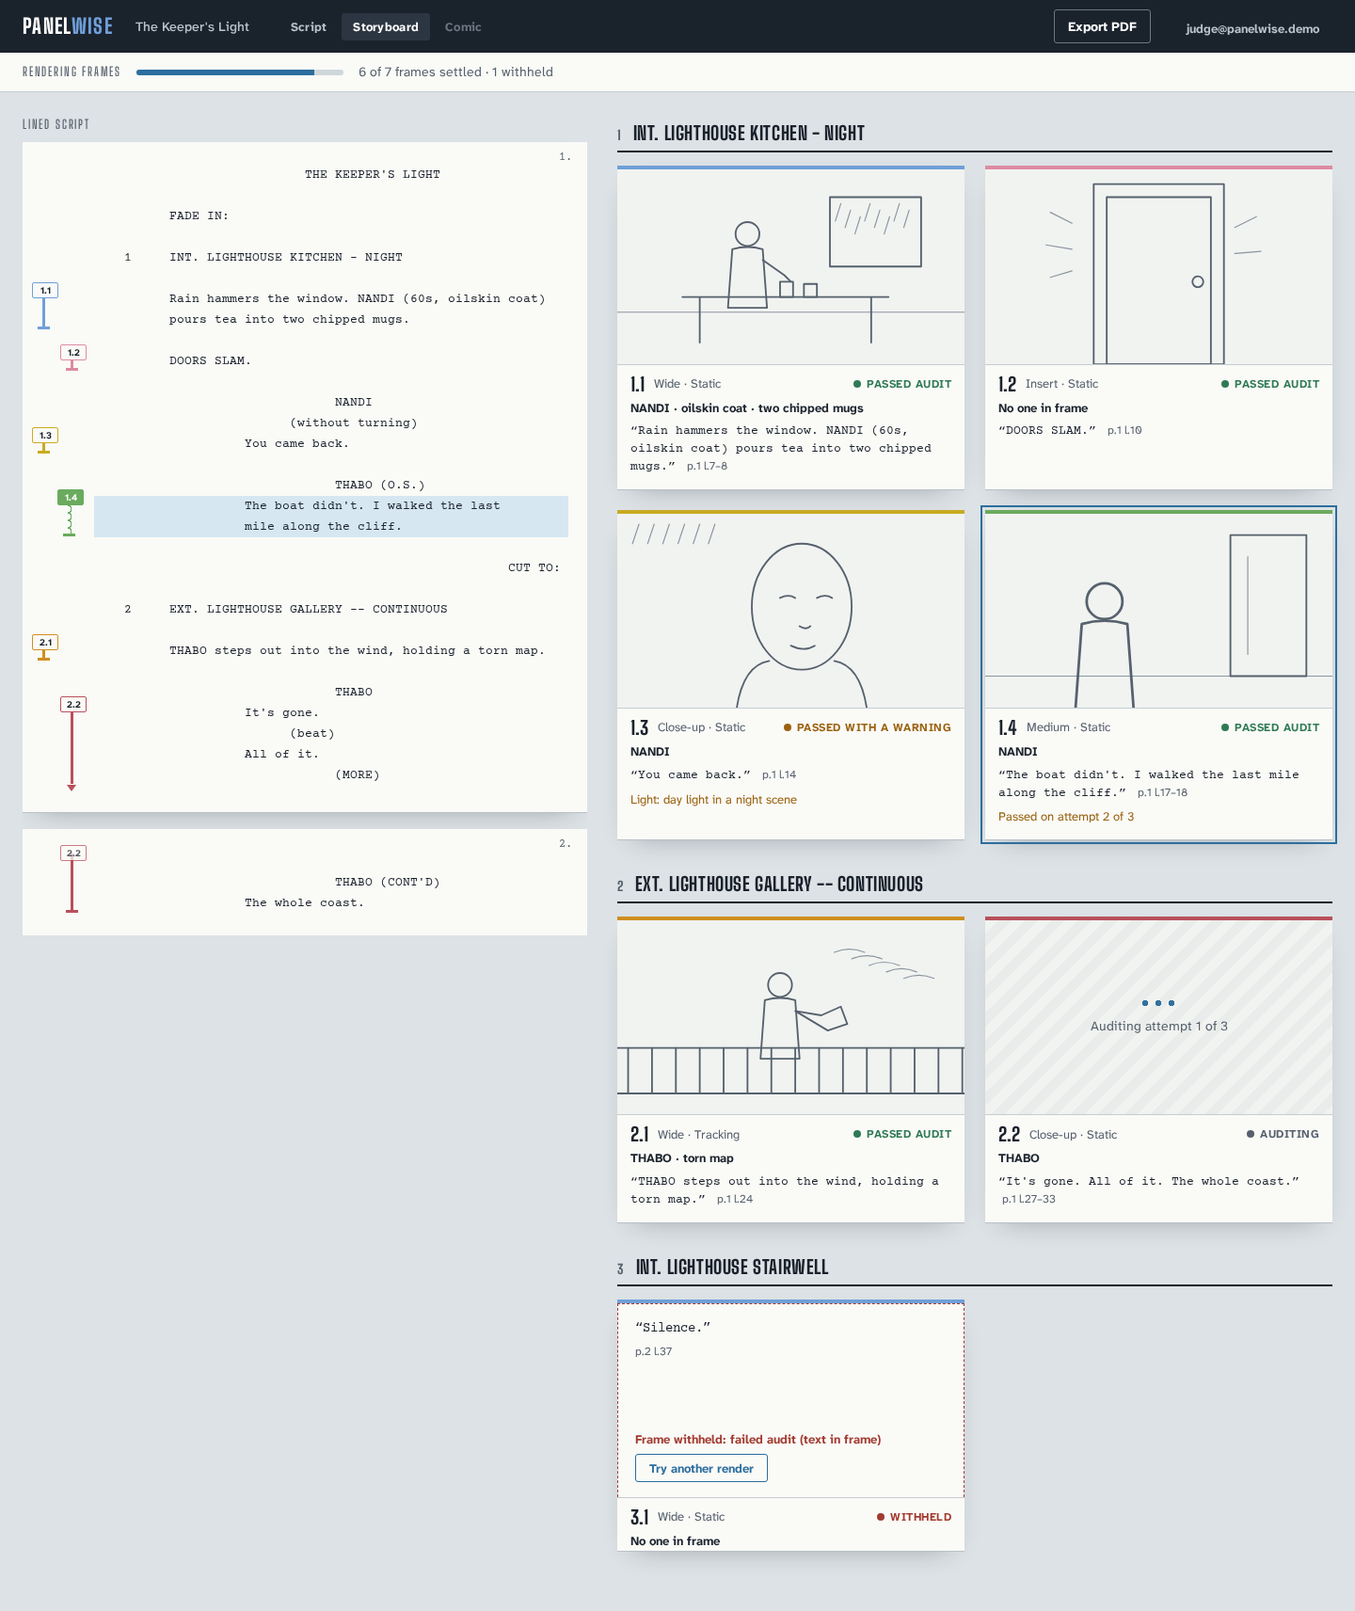
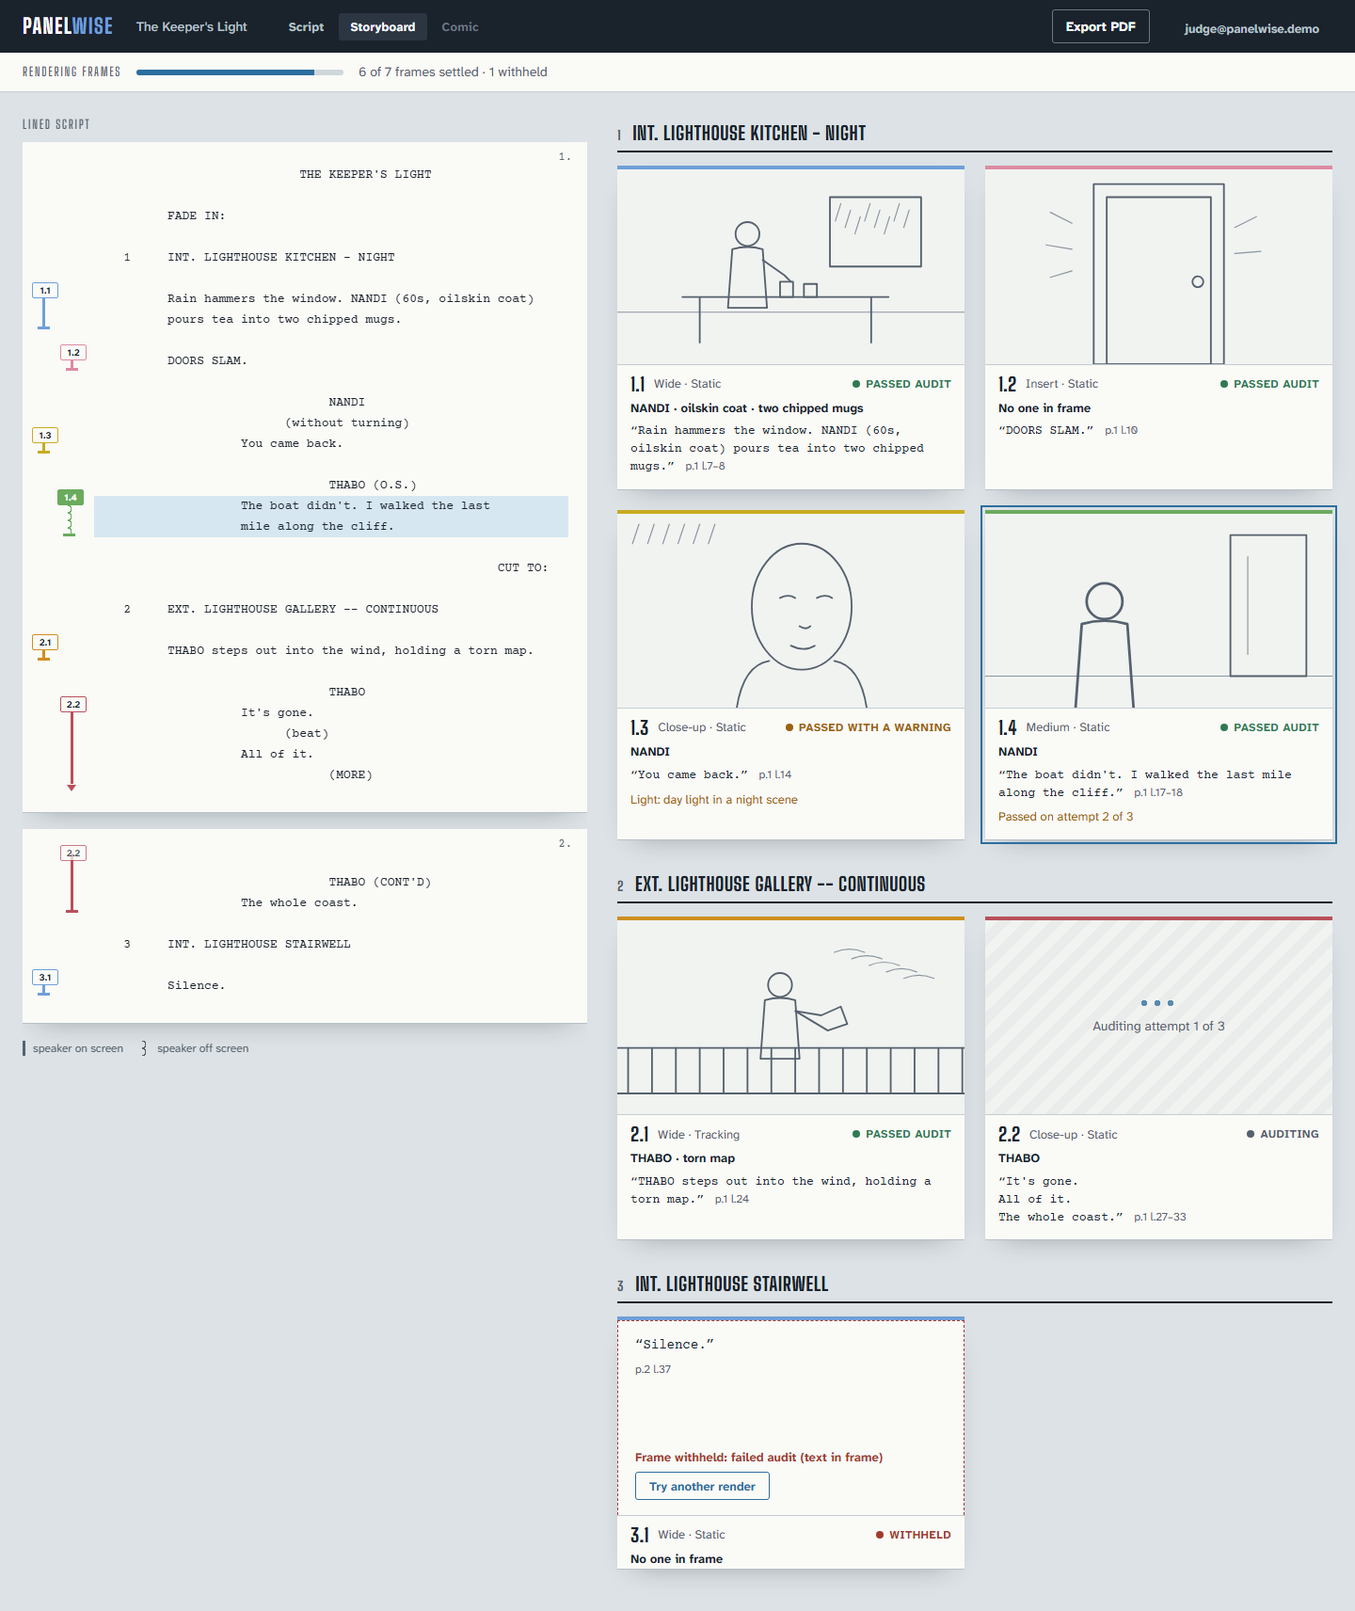
docs(web): T042 review: frames fetched every tick, one FailedCard, restart wording to T021, T027 owns Export, 2.2 in three parts

diff --git a/docs/design/web/mockups/storyboard.html b/docs/design/web/mockups/storyboard.html
@@ -6,7 +6,7 @@
 <header class="bar">
   <a class="wordmark" href="projects.html">Panel<span>wise</span></a>
   <span class="project">The Keeper's Light</span>
-  <nav aria-label="Project"><a href="script.html">Script</a><a href="storyboard.html" aria-current="page">Storyboard</a><a aria-disabled="true" title="Comic pages arrive with T024">Comic</a></nav>
+  <nav aria-label="Project"><a href="script.html">Script</a><a href="storyboard.html" aria-current="page">Storyboard</a><a aria-disabled="true" title="Comic pages aren&#x27;t built yet">Comic</a></nav>
   <span class="spacer"></span>
   <button class="btn quiet" disabled title="Available when every frame has settled">Export PDF</button>
   <span class="who">judge@panelwise.demo</span>
@@ -61,7 +61,7 @@
   <div class="media"><div class="media-pending"><span class="dots" aria-hidden="true"></span><p>Auditing attempt 1 of 3</p></div></div>
   <header><span class="sid">2.2</span><span class="cam">Close-up · Static</span><span class="verdict pending">Auditing</span></header>
   <p class="who">THABO</p>
-  <p class="src quote">“It&#x27;s gone. All of it. The whole coast.” <span class="span-ref">p.1 l.27–33</span></p>
+  <p class="src quote">“It&#x27;s gone.<br>All of it.<br>The whole coast.” <span class="span-ref">p.1 l.27–33</span></p>
   
 </article></div><h2 class="scene"><span>3</span>INT. LIGHTHOUSE STAIRWELL</h2><div class="grid"><article class="card" id="shot-3.1" style="--c:var(--line-1)">
   <div class="media"><div class="media-withheld"><p class="quote">“Silence.”</p><p class="span-ref">p.2 l.37</p>

diff --git a/docs/design/web.md b/docs/design/web.md
@@ -306,7 +306,8 @@ projects.png and projects-states.png.
      a minute."
 5. **Accepted (202), staged:** in T040 the panel returns to idle and the list refreshes, the new
    row on top with its live state (the Done of T040). **T042** replaces this with §4.1's redirect
-   to `/projects/{id}/storyboard`.
+   to `/projects/{id}/storyboard`: the route handler still relays the API's 202 JSON unchanged, and
+   `UploadPanel` calls `router.push(`/projects/${project.id}/storyboard`)` with the id from it.
 
 **`POST /api/projects`** (route handler): `getClaims()` (401 JSON if signed out), then forwards the
 request body as a stream with its `Content-Type` and `Content-Length` to `POST /api/v1/projects`
@@ -395,9 +396,12 @@ exists), `GET …/lines`, `GET …/shots` and `GET …/frames` in parallel (befo
 
 - the job's `state` or `stage` changed → `router.refresh()`, as the script page does (§4.2), so the
   board appears when planning finishes and the failed card when the job fails;
-- otherwise `frames` changed → the client fetches `GET /api/projects/[id]/frames` and re-renders
-  the board from it. A frame whose `state` and `attempt` are unchanged keeps the `image_url` it
-  already has, so a fresh signed URL never reloads an image that is on screen.
+- otherwise, while `frames` is set (rendering, or a frame active after `DONE`) → the client
+  fetches `GET /api/projects/[id]/frames` **on that same tick** and re-renders the board from it.
+  Every tick, not only when the counts change: a frame going `rendering` → `auditing`, or to its
+  next attempt, changes none of `ProjectSummary.frames`' counts. A frame whose `state` and
+  `attempt` are unchanged keeps the `image_url` it already has, so a fresh signed URL never
+  reloads an image that is on screen.
 
 A 401 goes to `/sign-in`; a failed poll is retried on the next tick.
 
@@ -408,7 +412,7 @@ A 401 goes to `/sign-in`; a failed poll is retried on the next tick.
 | `shots` null, job `queued` or `running` (queued, reading, planning) | the bar, the job strip, nothing else (§5: the storyboard waits for the plan) |
 | `shots` set, job `running` (rendering, T026) | the job strip, then the board |
 | job `done` | the board; the job strip only while `frames.active` > 0 (a "Try another render", T021) |
-| job `failed` | the eyebrow "Storyboard", the title, then the script page's failed card (§4.2, `FailedCard`, imported, not copied) |
+| job `failed` | the eyebrow "Storyboard", the title, then the script page's failed card (§4.2: `components/script/FailedCard.tsx`, imported, not copied) |
 
 A project the API answers 404 for renders `app/not-found.tsx` and an unreachable API or a 503 the
 "can't be loaded right now" line, both exactly as §4.2. **Before T021 and T026** every planned
@@ -445,8 +449,12 @@ state (§4.1), drawn in storyboard-states.png.
   - **Who and what:** the characters, then the props, as written, joined " · "; with no characters
     it starts "No one in frame" (storyboard.png 1.2), then any props.
   - **Source:** `ShotView.source` verbatim inside “ ”, its parts (one per covered element, joined
-    by "\n" in the API) each on its own line, then the span. A heading-only shot's source is its
-    heading.
+    by "
+" in the API) each on its own line, then the span. A heading-only shot's source is its
+    heading. An element's own wrapped lines arrive joined by a space (1.4, one dialogue element);
+    a parenthetical, a `(MORE)` and a `(CONT'D)` cue each end one element and start the next
+    (script.md's parser), so storyboard.png's 2.2 ("It's gone." (beat) "All of it." (MORE) page
+    break "The whole coast.") is three parts on three lines.
 - **Linking:** hovering or focusing a card highlights its shot line and tints its lines
   (`--pencil-soft`); clicking a shot line scrolls to its card and focuses it. Clicking a card opens
   the frame sheet (§4.4) and sets `?shot=1.4`, so a frame can be linked to.
@@ -464,7 +472,7 @@ state (§4.1), drawn in storyboard-states.png.
 | `passed` | the frame | "Passed audit" | "Passed on attempt {n} of {max}" when n > 1 |
 | `warned` | the frame | "Passed with a warning" | each failed soft check: "Light: day light in a night scene" |
 | `withheld` | a text card: the verbatim source, its span, "Frame withheld: failed audit ({check})", button "Try another render" | "Withheld" | — |
-| `failed` | a text card: the source, its span, "The renderer failed on this frame." (or, after the restart sweep, "Rendering was interrupted by a restart.") | "Render failed" | — |
+| `failed` | a text card: the source, its span, "The renderer failed on this frame." (or, after the restart sweep, "Rendering was interrupted by a restart.": T021's, below) | "Render failed" | — |
 
   Withheld and failed cards carry the source **once**, in the text card; the source line under the
   header is left out for them. Spans on cards read `p.1 l.7–8` (`l.14` for one line), in the body
@@ -474,6 +482,10 @@ state (§4.1), drawn in storyboard-states.png.
   case}: {detail}" (§6's check names), and `{check}` in the withheld card is `withheld_check` in
   words. **Staged, until T021:** the withheld card has no "Try another render" button (T021 adds
   it with the action, per its Files); no frame can be withheld before T021 writes `frames` rows.
+  Likewise every `failed` card in T042 reads "The renderer failed on this frame.": nothing in
+  `FrameView` or the `frames` table tells a renderer failure from the restart sweep's, so **T021**,
+  which writes both, adds what tells them apart (a `frames` column and its `FrameView` field, in
+  its own design change) and the second wording with it.
 
 - **Job strip** under the bar while polling (above): T041's `JobStrip`, unchanged (§4.2).
 - **Export PDF** (bar, right): disabled with the tooltip "Available when every frame has settled"
@@ -850,7 +862,8 @@ StoryboardPage
 ├── ExportButton (in AppBar actions; disabled until settled)   [T042; enabled by T027]
 ├── JobStrip (shared, T041)
 ├── LinedScript → ScriptSheet (per page) → ScriptLine*, ShotLine* ; Legend
-├── FrameBoard → SceneHeader, FrameCard (FrameMedia | PendingMedia | WithheldCard | FailedCard)   [T042]
+├── FailedCard (T041's, from components/script/, for a failed job)
+├── FrameBoard → SceneHeader, FrameCard (FrameMedia | PendingMedia | WithheldCard | RenderFailedCard)   [T042]
 └── FrameSheet → FrameMedia, SourceBlock, InFrame   [T045], AuditLog → AttemptItem → CheckList   [T021]
 shared (components/shared/): Verdict, SpanRef, Quote (Courier), Meter (T040); JobStrip (T041)
 ```
@@ -869,7 +882,8 @@ shared (components/shared/): Verdict, SpanRef, Quote (Courier), Meter (T040); Jo
 | Faithfulness | "{g} of {p} things the model named are in the script. {l} of {q} quotes found on the page." |
 | Recall | "{f} of {c} speaking characters found by the model. A speaker it misses is still added from their dialogue cues." |
 | Withheld | "Frame withheld: failed audit ({check in words})" · button "Try another render" |
-| Export tooltip | "Available when every frame has settled" |
+| Export tooltip | "Available when every frame has settled" (T027) · staged until then: "The PDF export isn't built yet" |
+| Storyboard cards, states, eyebrows | §4.3, verbatim: "Not rendered yet", "Rendering attempt {n} of {max}", "Auditing attempt {n} of {max}", "Render failed", "The renderer failed on this frame.", "Lined script", "speaker on screen", "speaker off screen", "Storyboard" (the failed page's eyebrow) |
 
 Check names in words: `unscripted_person` "unscripted person", `unscripted_object` "unscripted
 object", `text_in_frame` "text in frame", `setting` "wrong setting", `missing_character` "missing
@@ -901,7 +915,7 @@ character", `light` "light", `framing` "framing", `audit_error` "the audit could
 | `apps/web/app/(auth)/sign-in/`, `apps/web/app/projects/page.tsx`, `apps/web/app/api/projects/route.ts`, `apps/web/components/AppBar.tsx` (ProjectTabs inside), `apps/web/components/SignInForm.tsx`, `apps/web/components/projects/*` (ProjectsPage parts) | new | §4.0, §4.1 | T040 |
 | `apps/web/components/shared/{Verdict,SpanRef,Quote,Meter}.tsx` | new | used by every screen | T040 |
 | `apps/web/app/projects/[id]/script/`, `components/script/*`, `components/shared/JobStrip.tsx`, `apps/web/app/api/projects/[id]/status/route.ts`, `apps/web/app/not-found.tsx` | new | §4.2 | T041 |
-| `apps/web/app/projects/[id]/storyboard/`, `components/storyboard/LinedScript.tsx` (ScriptSheet, ScriptLine, ShotLine, Legend inside), `FrameBoard.tsx` (SceneHeader inside), `FrameCard.tsx` (PendingMedia, WithheldCard, FailedCard inside), `FrameMedia.tsx` (T045 imports it), `apps/web/app/api/projects/[id]/frames/route.ts` | new | §4.3 | T042 |
+| `apps/web/app/projects/[id]/storyboard/`, `components/storyboard/LinedScript.tsx` (ScriptSheet, ScriptLine, ShotLine, Legend inside), `FrameBoard.tsx` (SceneHeader inside), `FrameCard.tsx` (PendingMedia, WithheldCard, RenderFailedCard inside), `FrameMedia.tsx` (T045 imports it), `apps/web/app/api/projects/[id]/frames/route.ts` | new | §4.3 | T042 |
 | `components/storyboard/{FrameSheet,SourceBlock,InFrame}*` | new | §4.4 steps 1–4 | T045 |
 | `components/storyboard/AuditLog.tsx` (AttemptItem, CheckList inside), the "Try another render" action (an edit to T042's `FrameCard.tsx`), `apps/web/app/api/projects/[id]/frames/[scene]/[number]/attempts/route.ts` | new | §4.4 step 5; §4.3 retry | T021 |
 | `components/storyboard/ExportButton.tsx` | new | §4.3 export, staged (always disabled until T027) | T042 |
@@ -948,7 +962,12 @@ restyled).
   table renders; **no `<img>` for a frame outside passed/warned**; a shot line's top and height come
   from its span; a dialogue segment off screen draws wavy; the sheet opens from `?shot=`; the lined
   script is hidden and the source shown on a narrow viewport; polling continues while any frame is
-  `rendering` or `auditing` after the job is `done`; withheld cards show the source once.
+  `rendering` or `auditing` after the job is `done`; withheld cards show the source once (T042, and
+  T045 for the sheet); also for T042: pages split at `page_starts` with global line numbers,
+  `runs-on` and `continued` pieces, a heading-only shot straight, every row of §4.3's page table
+  (not found and unavailable included), `…/frames` fetched on every tick while frames are set (a
+  `rendering` → `auditing` change with the same counts reaches the card), an unchanged frame
+  keeping its image URL, Export always disabled with its staged tooltip, cards not clickable.
 - **Visual:** each screen side by side with its PNG in §2 at 1440 px (and the storyboard at 390 px),
   layout, tokens and copy matching; a difference is fixed in the code or, if the reference is
   wrong, in this doc first.

diff --git a/TASKS.md b/TASKS.md
@@ -196,11 +196,11 @@ Each user-story phase is ordered **Design → Tests FIRST (must FAIL) → Implem
       Verify:  bash scripts/gate.sh (no network: `httpx2.MockTransport` for ComfyUI and Storage, an in-memory `AssetStore`, a fake renderer and mocked audit for `build_storyboard`); then live on the real account and T003's GPU: `uv run python -m app.storyboard.run samples/<self-written>.pdf --out /tmp/sb` ends with every shot `passed`, `warned` or `withheld` and every attempt's frame in Supabase Storage; seconds per frame recorded in infra/nebius/README.md
       Done:    every shot of a self-written screenplay ends with an audited frame in Supabase Storage (or withheld), every attempt logged with its asset; a second run of the same script renders nothing new (every frame a Storage hit)
 - [ ] T027 [US1] **Storyboard, part 3: the storyboard PDF and JSON.** Port from `storyboard_document.py` (layout; drawn with Pillow instead). Depends on T026. Lane `storyboard`.
-      Design:  docs/design/storyboard.md §3.4, §6 (`document.py`, the storyboard JSON), §9 (Document)
+      Design:  docs/design/storyboard.md §3.4, §6 (`document.py`, the storyboard JSON), §9 (Document); docs/design/web.md §4.3 (Export PDF), §6 (the storyboard.pdf row)
       Files:   services/api/app/storyboard/{document,run}.py; services/api/app/api/v1/projects.py (`GET /projects/{id}/storyboard.pdf`, web.md §6); apps/web/app/api/projects/[id]/storyboard.pdf/route.ts and ExportButton.tsx's enable rule (web.md §4.3, undoing T042's staging); services/api/assets/fonts/{CourierPrime-Regular.ttf,CourierPrime-Bold.ttf,CourierPrime-OFL.txt}; docs/design/reference/storyboard/*.png; services/api/tests/storyboard/*; CHANGES-FROM-FRAMEFLOW.md (ported row)
       Contract:docs/design/storyboard.md §6 `document.py` and the storyboard JSON, verbatim (an export; the web pages read `frames` rows, web.md §6)
-      Verify:  bash scripts/gate.sh (the document from generated PNGs, including a withheld card and a continued block); then `uv run python -m app.storyboard.run samples/<self-written>.pdf --out /tmp/sb` also writes the PDF to /tmp/sb and Storage
-      Done:    a self-written screenplay becomes a storyboard PDF in a public style, one block per shot in plan order, each showing an audited frame (or the withheld card) above the shot's verbatim source and page/line span; the sample's pages are committed as the visual reference
+      Verify:  bash scripts/gate.sh (the document from generated PNGs, including a withheld card and a continued block; web, built by Claude per AGENTS.md §1: vitest on ExportButton's rule, disabled with "Available when every frame has settled" until the job is done and every shot has a settled row with none active, and on the route handler relaying the API's PDF and its 409); then `uv run python -m app.storyboard.run samples/<self-written>.pdf --out /tmp/sb` also writes the PDF to /tmp/sb and Storage
+      Done:    a self-written screenplay becomes a storyboard PDF in a public style, one block per shot in plan order, each showing an audited frame (or the withheld card) above the shot's verbatim source and page/line span; the sample's pages are committed as the visual reference; and the storyboard's Export PDF (web.md §4.3) enables once every frame has settled and downloads that PDF
 - [x] T009 [US1] **Database foundation: the gate's test Postgres, Alembic, the `projects` and `jobs` tables, the restart sweep.** Split on 2026-10-02 from the original T009 (too big for one sitting); sign-in, storage and the upload are T053. Lane `web`. Changes `scripts/gate.sh` under Katlego's AGENTS.md §4 exception (STATUS.md Log, 2026-10-02).
       Design:  docs/design/deploy.md §6 (*Schema and migrations*, *Row-level security*, *Test Postgres*), §10; docs/design/web.md §3 (Project, Job), §4.1 (restart sweep), §6 (*API internals*: models, repos, the startup sweep)
       Files:   scripts/gate.sh (test Postgres); services/api/{alembic.ini,migrations/** (incl. `helpers.py` `lock_down`)}; services/api/app/db.py (engine and `async_sessionmaker` from Settings); services/api/app/{projects,jobs}/{model,repo}.py, app/jobs/__init__.py; services/api/app/main.py (lifespan: sessions, the sweep); services/api/app/core/config.py; services/api/tests/{conftest.py (the `db` fixture),db/*}; services/api/pyproject.toml (alembic; the `db` marker); services/api/Dockerfile (copies the migrations); docker-compose.yml (api runs `alembic upgrade head` first); docs/deploy.md (Railway's pre-deploy command)
@@ -252,9 +252,9 @@ Each user-story phase is ordered **Design → Tests FIRST (must FAIL) → Implem
       Done:    every entity shows each quote in Courier with its page/line span, and faithfulness and recall always appear together with their counts, matching script.png; a project still being read shows its job strip and fills in as stages finish
 - [ ] T042 [US1] **Web: storyboard board (lined script and frame cards).** Lane `web` (Claude). Depends on T041. Frames appear only once T021 moves a frame to passed/warned; before that the cards show "Not rendered yet", the real state (web.md §3, §4.1).
       Design:  docs/design/web.md §4.3 (incl. the page table, geometry, card text, staging), §5, §6
-      Files:   apps/web/app/projects/[id]/storyboard/*; apps/web/components/storyboard/{LinedScript,FrameBoard,FrameCard,FrameMedia,ExportButton}.tsx (JobStrip and FailedCard are T041's, shared) (sub-components per web.md §7); apps/web/app/api/projects/[id]/frames/route.ts (the PDF route is T027's); apps/web/components/projects/* (T040's and T041's staged parts, web.md §4.1a, §4.2: row titles link to the storyboard, the upload redirects to it); the Storyboard tab and "Open the storyboard" (T041's staging, web.md §4.2); tests beside them
+      Files:   apps/web/app/projects/[id]/storyboard/*; apps/web/components/storyboard/{LinedScript,FrameBoard,FrameCard,FrameMedia,ExportButton}.tsx (JobStrip and FailedCard are T041's, shared) (sub-components per web.md §7); apps/web/app/api/projects/[id]/frames/route.ts (the PDF route is T027's); apps/web/components/projects/* (T040's and T041's staged parts, web.md §4.1a, §4.2: row titles link to the storyboard, the upload redirects to it); apps/web/components/AppBar.tsx (the Storyboard tab) and apps/web/components/script/SceneIndex.tsx ("Open the storyboard"), T041's staging (web.md §4.2); tests beside them
       Contract:consumes …/lines, …/shots, …/frames, …/status (web.md §6; the status route and JobStrip are T041's)
-      Verify:  pnpm test (every card-table row; no <img> outside passed/warned; withheld source shown once; shot line top/height from spans; wavy off-screen segments; polling while any frame is active, a stage change refreshing the page, an unchanged frame keeping its image URL; every row of §4.3's page table; Export PDF disabled with its staged tooltip; cards not clickable until T045 and no "Try another render" until T021; lined script hidden below 1100 px); compare with docs/design/web/storyboard.png, storyboard-phone.png and storyboard-states.png
+      Verify:  pnpm test (every card-table row; no <img> outside passed/warned; withheld source shown once; shot line top/height from spans; wavy off-screen segments; polling while any frame is active, a stage change refreshing the page, `…/frames` fetched every tick while frames are set (rendering → auditing with the same counts reaches the card); an unchanged frame keeping its image URL; every row of §4.3's page table; Export PDF disabled with its staged tooltip; cards not clickable until T045 and no "Try another render" until T021; lined script hidden below 1100 px); compare with docs/design/web/storyboard.png, storyboard-phone.png and storyboard-states.png
       Done:    on a planned project every shot appears as a line over exactly its script lines and as a card with its verbatim source, and hovering or focusing either highlights the other, matching the two references; and T040's and T041's staging is undone (web.md §4.1a, §4.2): a projects-list title opens its storyboard, an accepted upload lands on it, and the script page's Storyboard tab and button open it
 - [ ] T045 [US1] **Web: frame sheet.** Lane `web` (Claude). Depends on T042.
       Design:  docs/design/web.md §4.4 steps 1–4, §6
